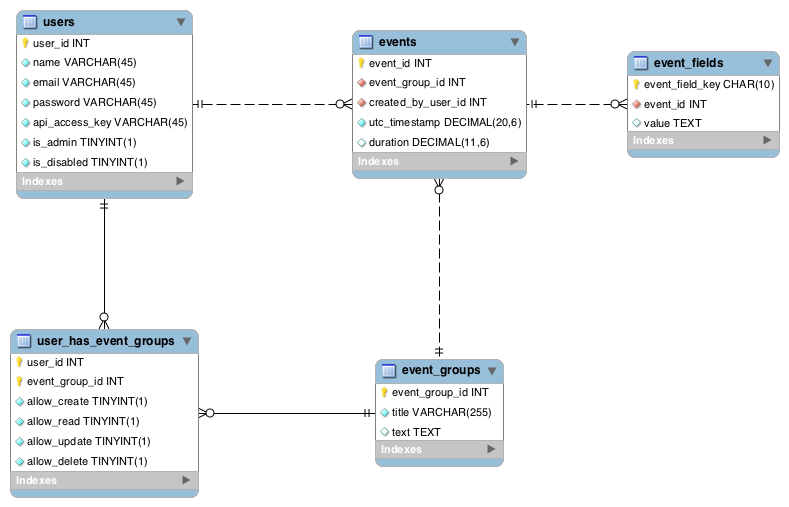
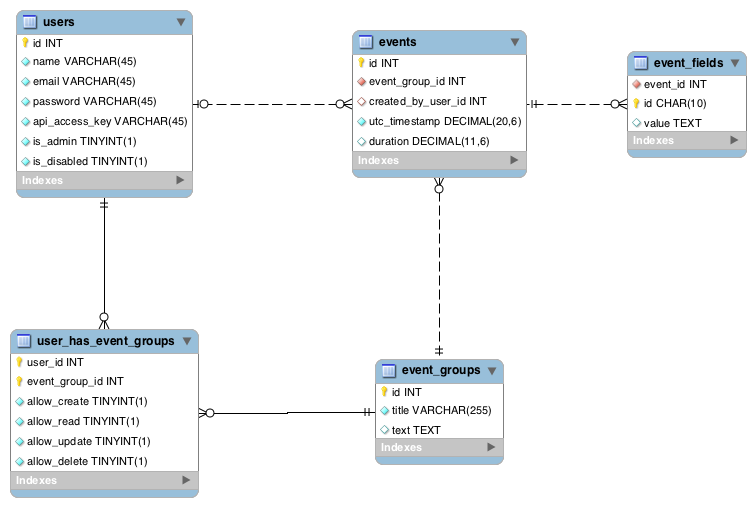
db updated

diff --git a/api/index.js b/api/index.js
@@ -7,21 +7,38 @@ var sequelize = new Sequelize('d015dedf', 'd015dedf', 'QUtNzpy3QF25gv3E', {
   host: 'kb-server.de',
   dialect: 'mysql',
   define: {
+    engine: 'InnoDB',
     charset: 'utf8',
     collate: 'utf8_general_ci',
-    timestamps: false
+    timestamps: false,
+    underscored: true
   }
 });
 
-
+// Define tables
 var User = sequelize.define('user', {
   user_id: {type: Sequelize.INTEGER, primaryKey: true, autoIncrement: true},
   name: {type: Sequelize.STRING},
-  email: {type: Sequelize.STRING}
+  email: {type: Sequelize.STRING},
+  password: {type: Sequelize.STRING},
+  api_access_key: {type: Sequelize.STRING},
+  is_admin: {type: Sequelize.BOOLEAN},
+  is_disabled: {type: Sequelize.BOOLEAN}
 });
+
+
+var Event = sequelize.define('event', {
+  event_id: {type: Sequelize.INTEGER, primaryKey: true, autoIncrement: true},
+  utc_timestamp: {type: Sequelize.STRING},
+  duraction: {type: Sequelize.STRING}
+});
+
+User.hasMany(Event, {foreignKey: 'created_by_user_id'});
+
 
 User.findAll().success(function(users) {
   console.log(users);
+  console.log(users[0].getEvents());
 });
 
 
